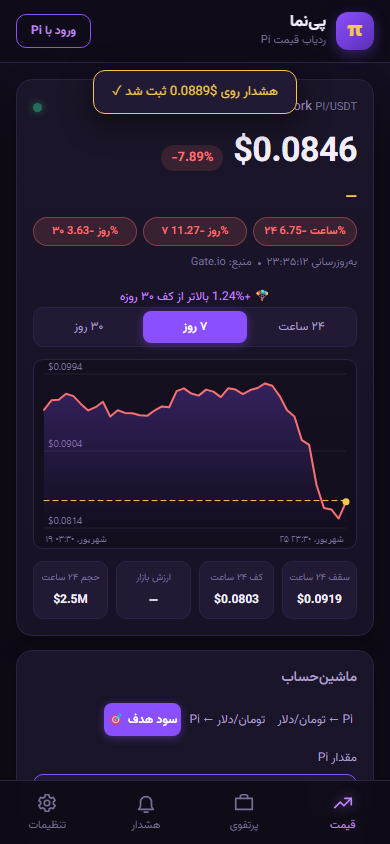
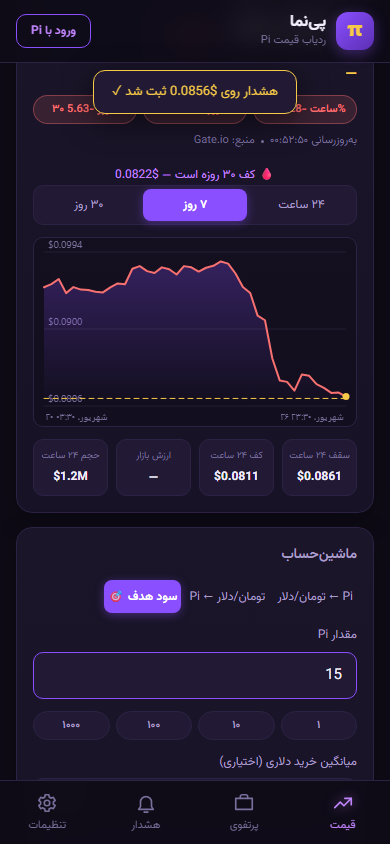
chore(cycle18): version 1.3.0 (onboarding, CSV export, OG cards, shortcuts, weekly delta since 1.2.0), fresh manifest screenshot, SW v14

diff --git a/test/render.js b/test/render.js
@@ -192,7 +192,7 @@ setTimeout(function () {
     t('source label gate', String(getEl('price-source').textContent).includes('Gate'), 'got "' + getEl('price-source').textContent + '"');
     t('no error banner', getEl('offline-banner').hidden === true);
     t('holdings prefilled 15', String(getEl('pf-holdings').value) === '15', 'got "' + getEl('pf-holdings').value + '"');
-    t('version rendered', String(getEl('app-version').textContent).indexOf('1.2.0') !== -1, 'got "' + getEl('app-version').textContent + '"');
+    t('version rendered', String(getEl('app-version').textContent).indexOf('1.3.0') !== -1, 'got "' + getEl('app-version').textContent + '"');
 
     /* واحد نمایش تومان: قیمت بزرگ باید تومان شود */
     try {

diff --git a/js/config.js b/js/config.js
@@ -2,7 +2,7 @@
 window.PiNama = window.PiNama || {};
 
 PiNama.config = {
-  VERSION: '1.2.0',
+  VERSION: '1.3.0',
   SDK_VERSION: '2.0',
   // منابع قیمت — به ترتیب امتحان میشوند (اولین موفق برنده)
   GATE_TICKER: 'https://api.gateio.ws/api/v4/spot/tickers?currency_pair=PI_USDT',

diff --git a/sw.js b/sw.js
@@ -1,7 +1,7 @@
 /* پینما — Service Worker: کش آفلاین app shell + بهروزرسانی در پسزمینه */
 'use strict';
 
-const CACHE = 'pinama-v13';
+const CACHE = 'pinama-v14';
 
 /* app shell — همه با نسخهبندی implicit در CACHE name */
 const ASSETS = [
